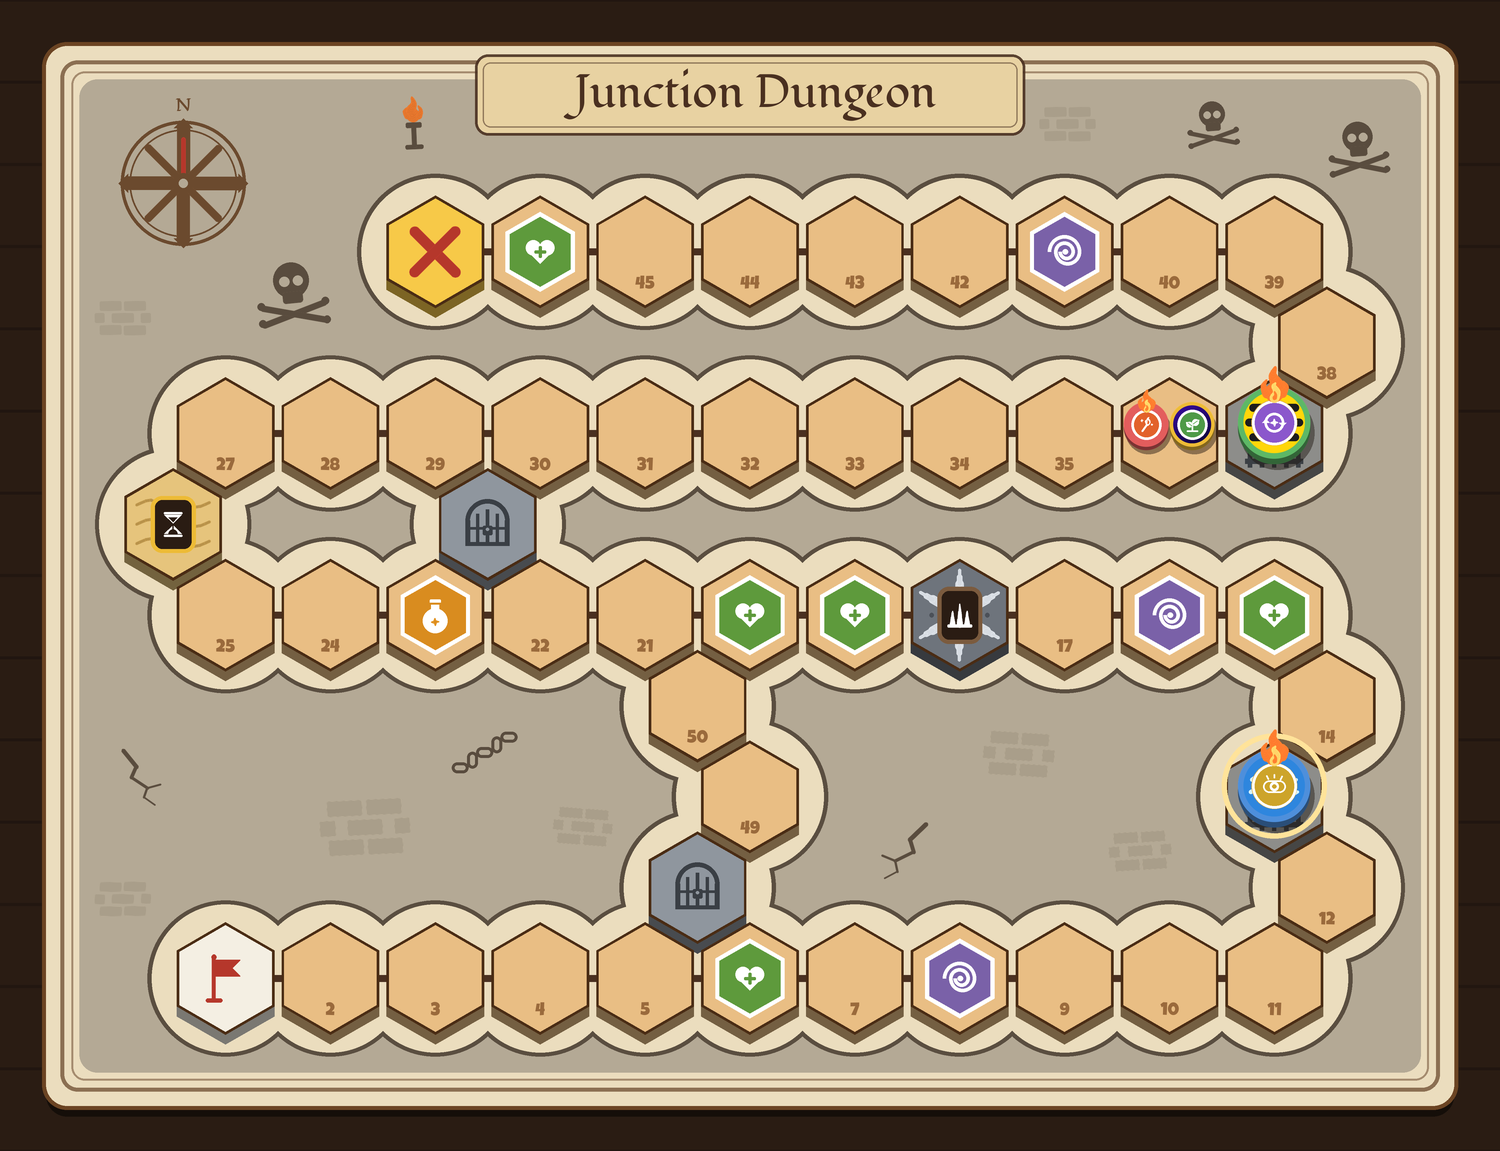
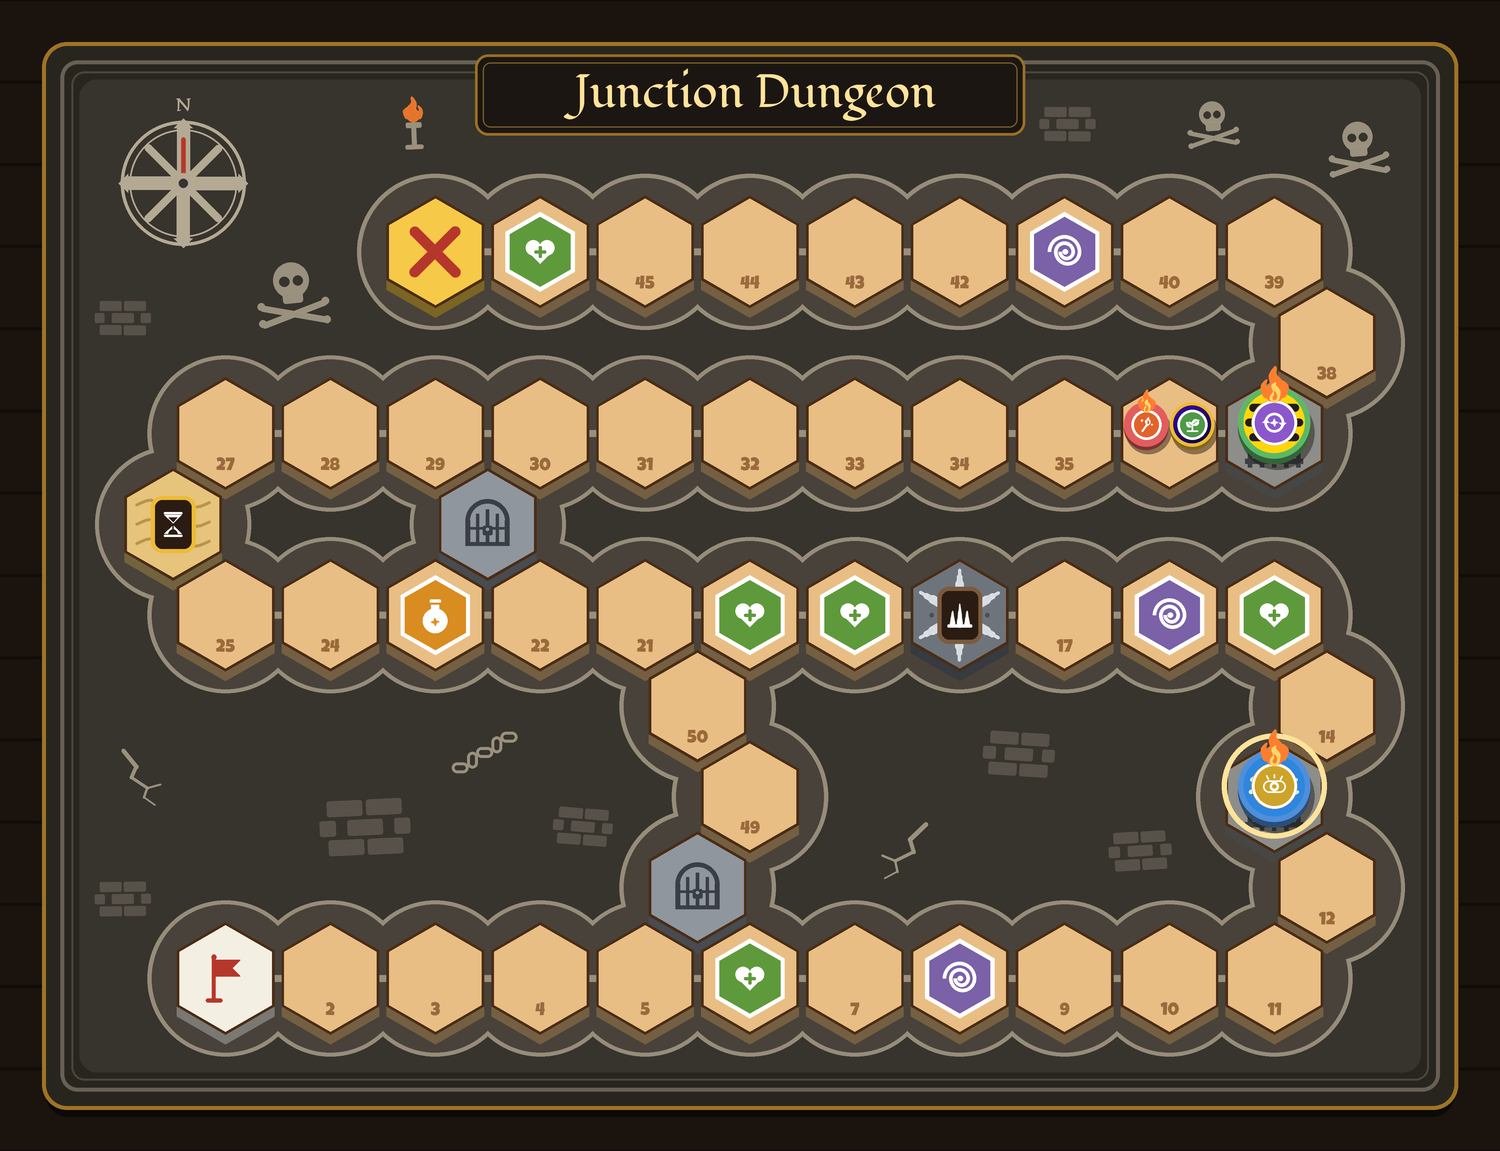
New soundtrack, chosen by measuring the audio; previews in the dark theme
Music
- Lobby: Les Voyages de la Mappa Mundi, Magic - The Harp, Clair De Lune
  (harp). Match: Shards Shimmer, Exploring Concepts (Underscore), Puzzles
  in Twilight (Alt), Mystery Islands. Endgame: Mind Puzzle (b), Curious
  Crime (Pulse Only). All APM tracks on the Roblox library, checked free,
  public and from APM's verified account.
- Picked from 155 downloaded candidates by loudness range, onset density,
  beat strength, brightness and spectrograms: steady, unhurried, no vocals,
  nothing comedic. Each is loudness-matched, starts after its silence and
  hands over to the next track where its own ending begins.

Also
- Pulling a card sideways along a scrolling hand scrolls it; only pulling
  it out towards the board picks it up.
- Previews: the dark lobby and match on every screen, the night maps, the
  turn countdown, card hover, placing and the slam (13-placing-slam.gif).

Claude-Session: https://claude.ai/code/session_01G3yxCBZyGPGkzs18a12gvx

diff --git a/README.md b/README.md
@@ -62,8 +62,20 @@ the wooden cards, the collectibles, the lobby on phones and every tile skin.
   phones held sideways keep the cards under your left thumb and ROLL under your right,
   and phones held upright stand the board up. Nothing sits over Roblox's own buttons,
   notches or the home bar.
-- **Sound.** Dice on felt, wooden steps, card swishes and a tavern / board-game score,
-  all from Roblox's free audio library (Music and Sound effects can each be turned off).
+- **Sound.** Dice on felt, wooden steps, card swishes and a thud when a card hits the
+  board, all from Roblox's free audio library. Music and sound effects each have a
+  volume slider (in Settings and the match menu), saved to your profile.
+- **Music that follows the game.** Three moods, each a short playlist that's
+  shuffled so no track plays twice in a row. Each track crossfades into the next
+  just before its own ending, so nothing loops or cuts. The music steps back for a
+  moment when someone finds a treasure, turns tense when a player (or team) is one
+  treasure from winning, and bows out under the winner's fanfare.
+
+  | Mood | Tracks (APM, Roblox audio library) |
+  | --- | --- |
+  | Lobby | [Les Voyages de la Mappa Mundi](https://create.roblox.com/store/asset/1837137568), [Magic - The Harp](https://create.roblox.com/store/asset/1844347220), [Clair De Lune (harp)](https://create.roblox.com/store/asset/96767255237081) |
+  | Match | [Shards Shimmer](https://create.roblox.com/store/asset/9048197244), [Exploring Concepts (Underscore)](https://create.roblox.com/store/asset/9040054834), [Puzzles in Twilight (Alt)](https://create.roblox.com/store/asset/79301554757012), [Mystery Islands](https://create.roblox.com/store/asset/1844986119) |
+  | Endgame | [Mind Puzzle (b)](https://create.roblox.com/store/asset/1839856504), [Curious Crime (Pulse Only)](https://create.roblox.com/store/asset/129673998145182) |
 
 ## Project layout
 
